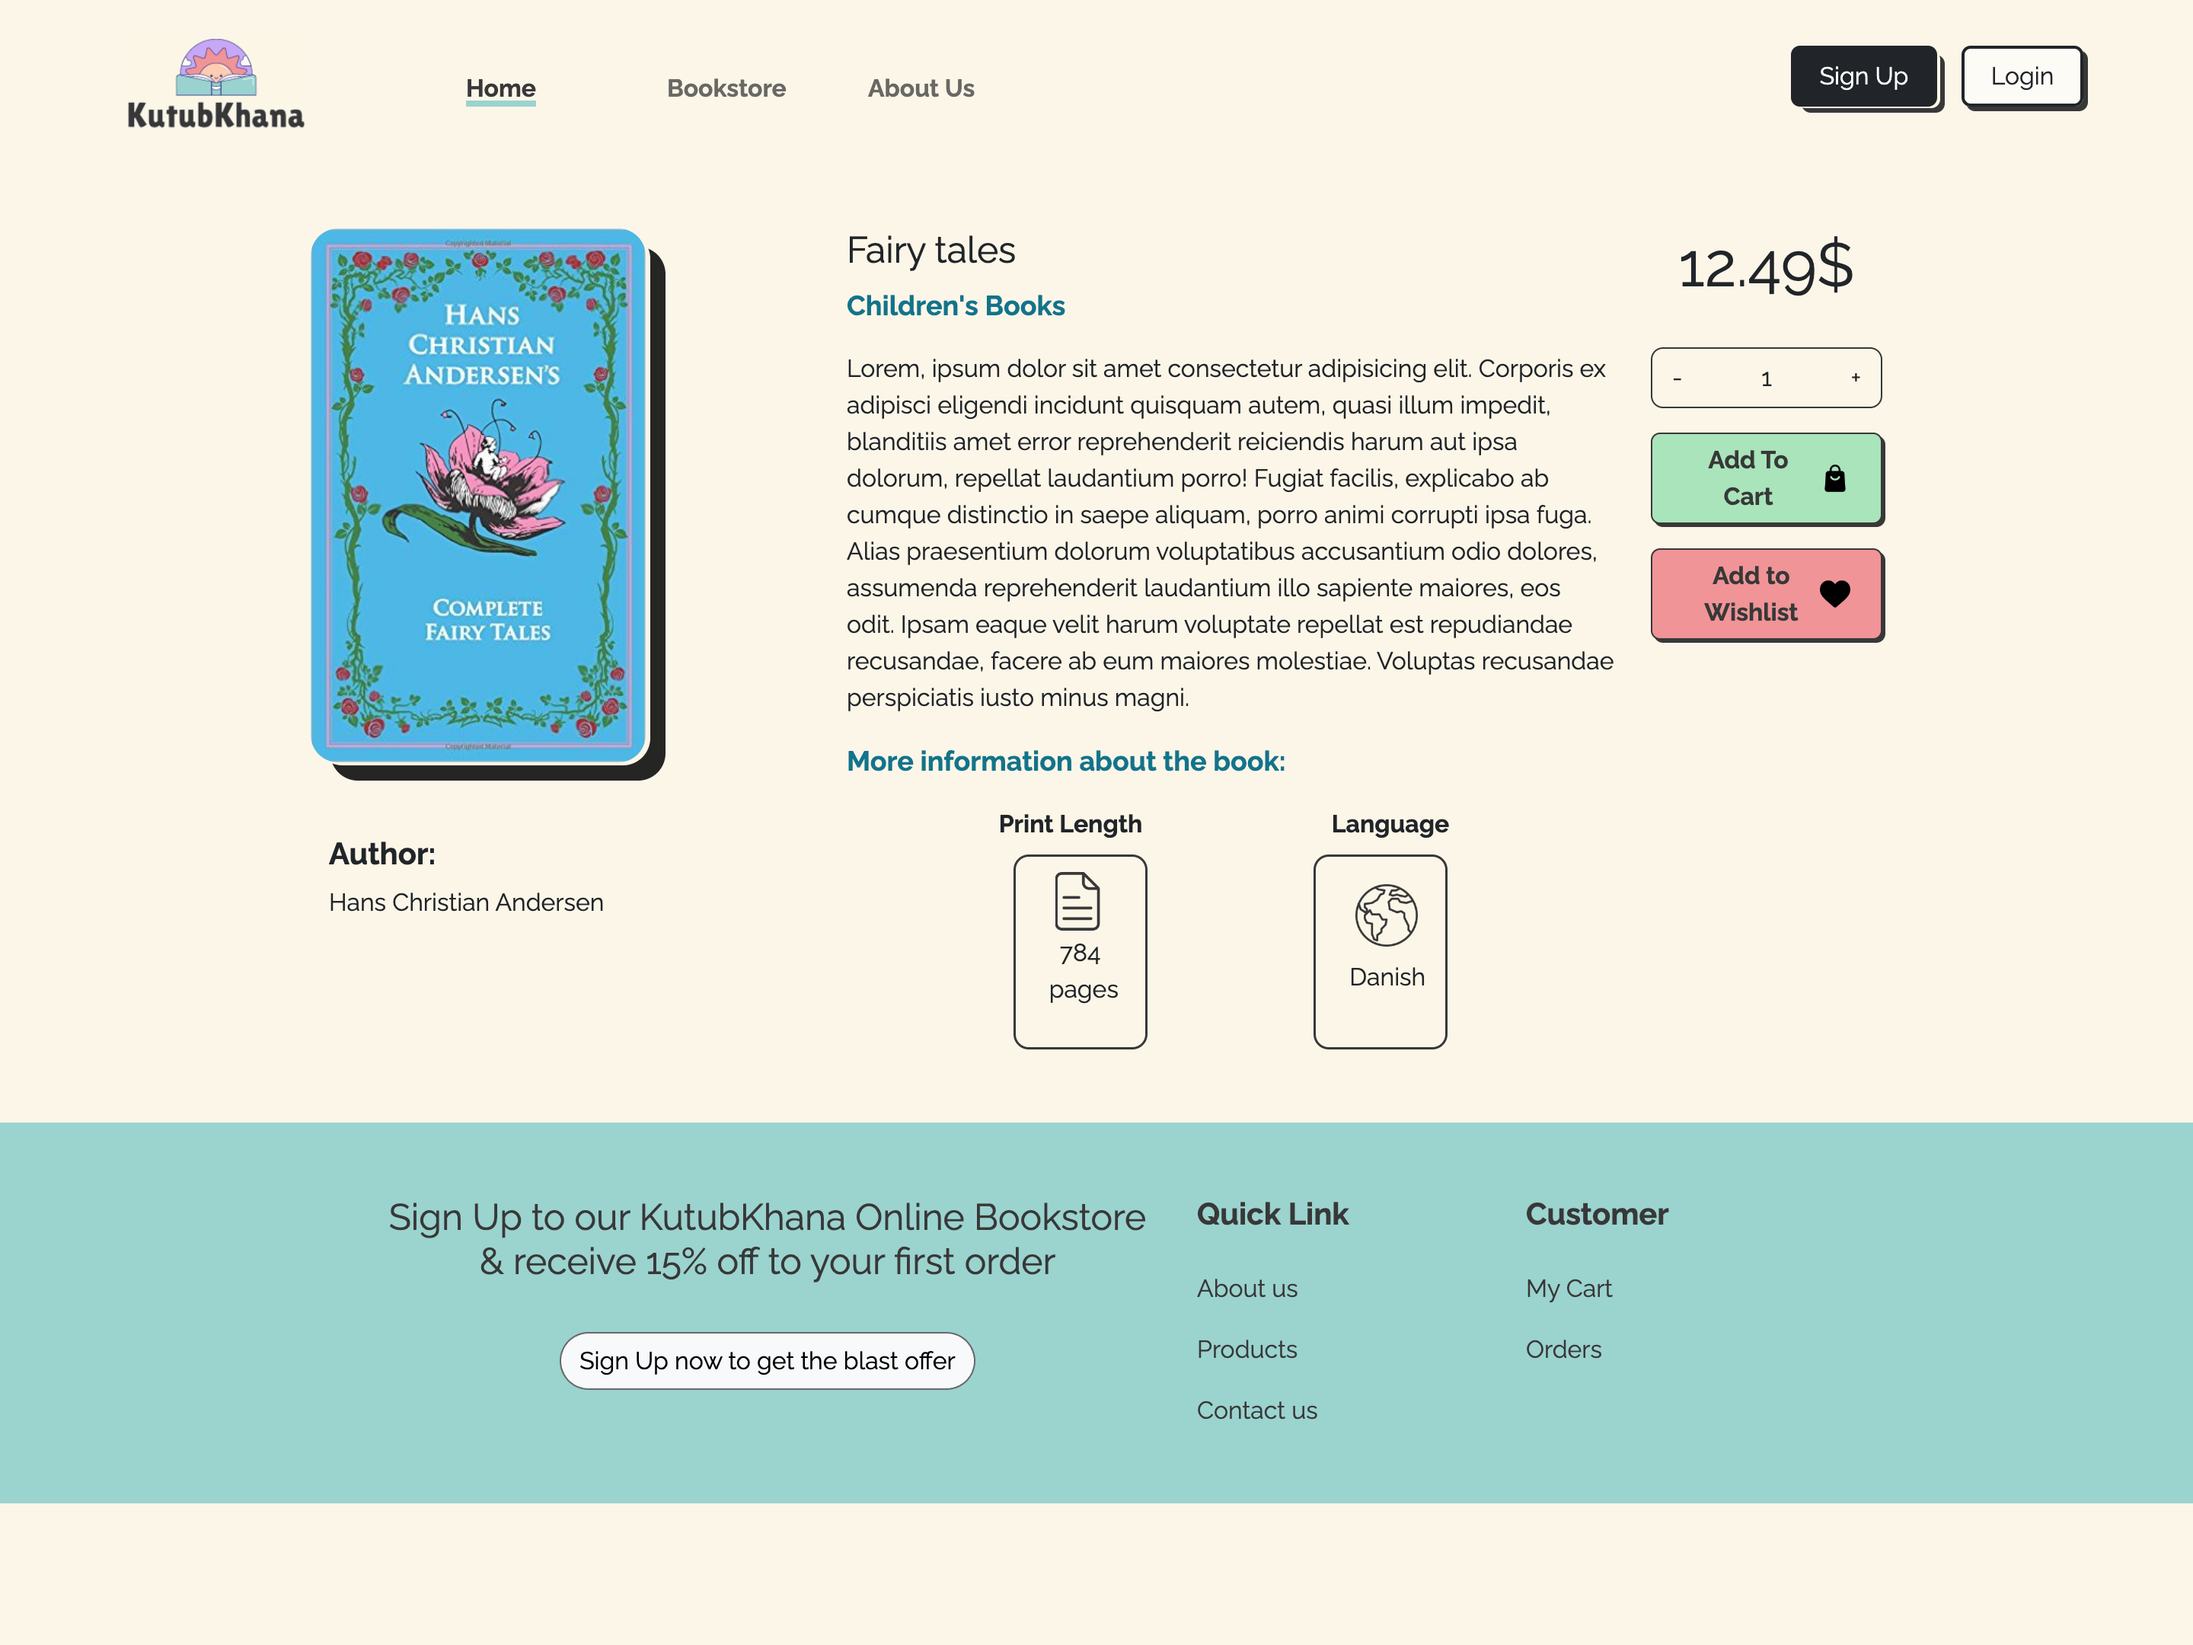
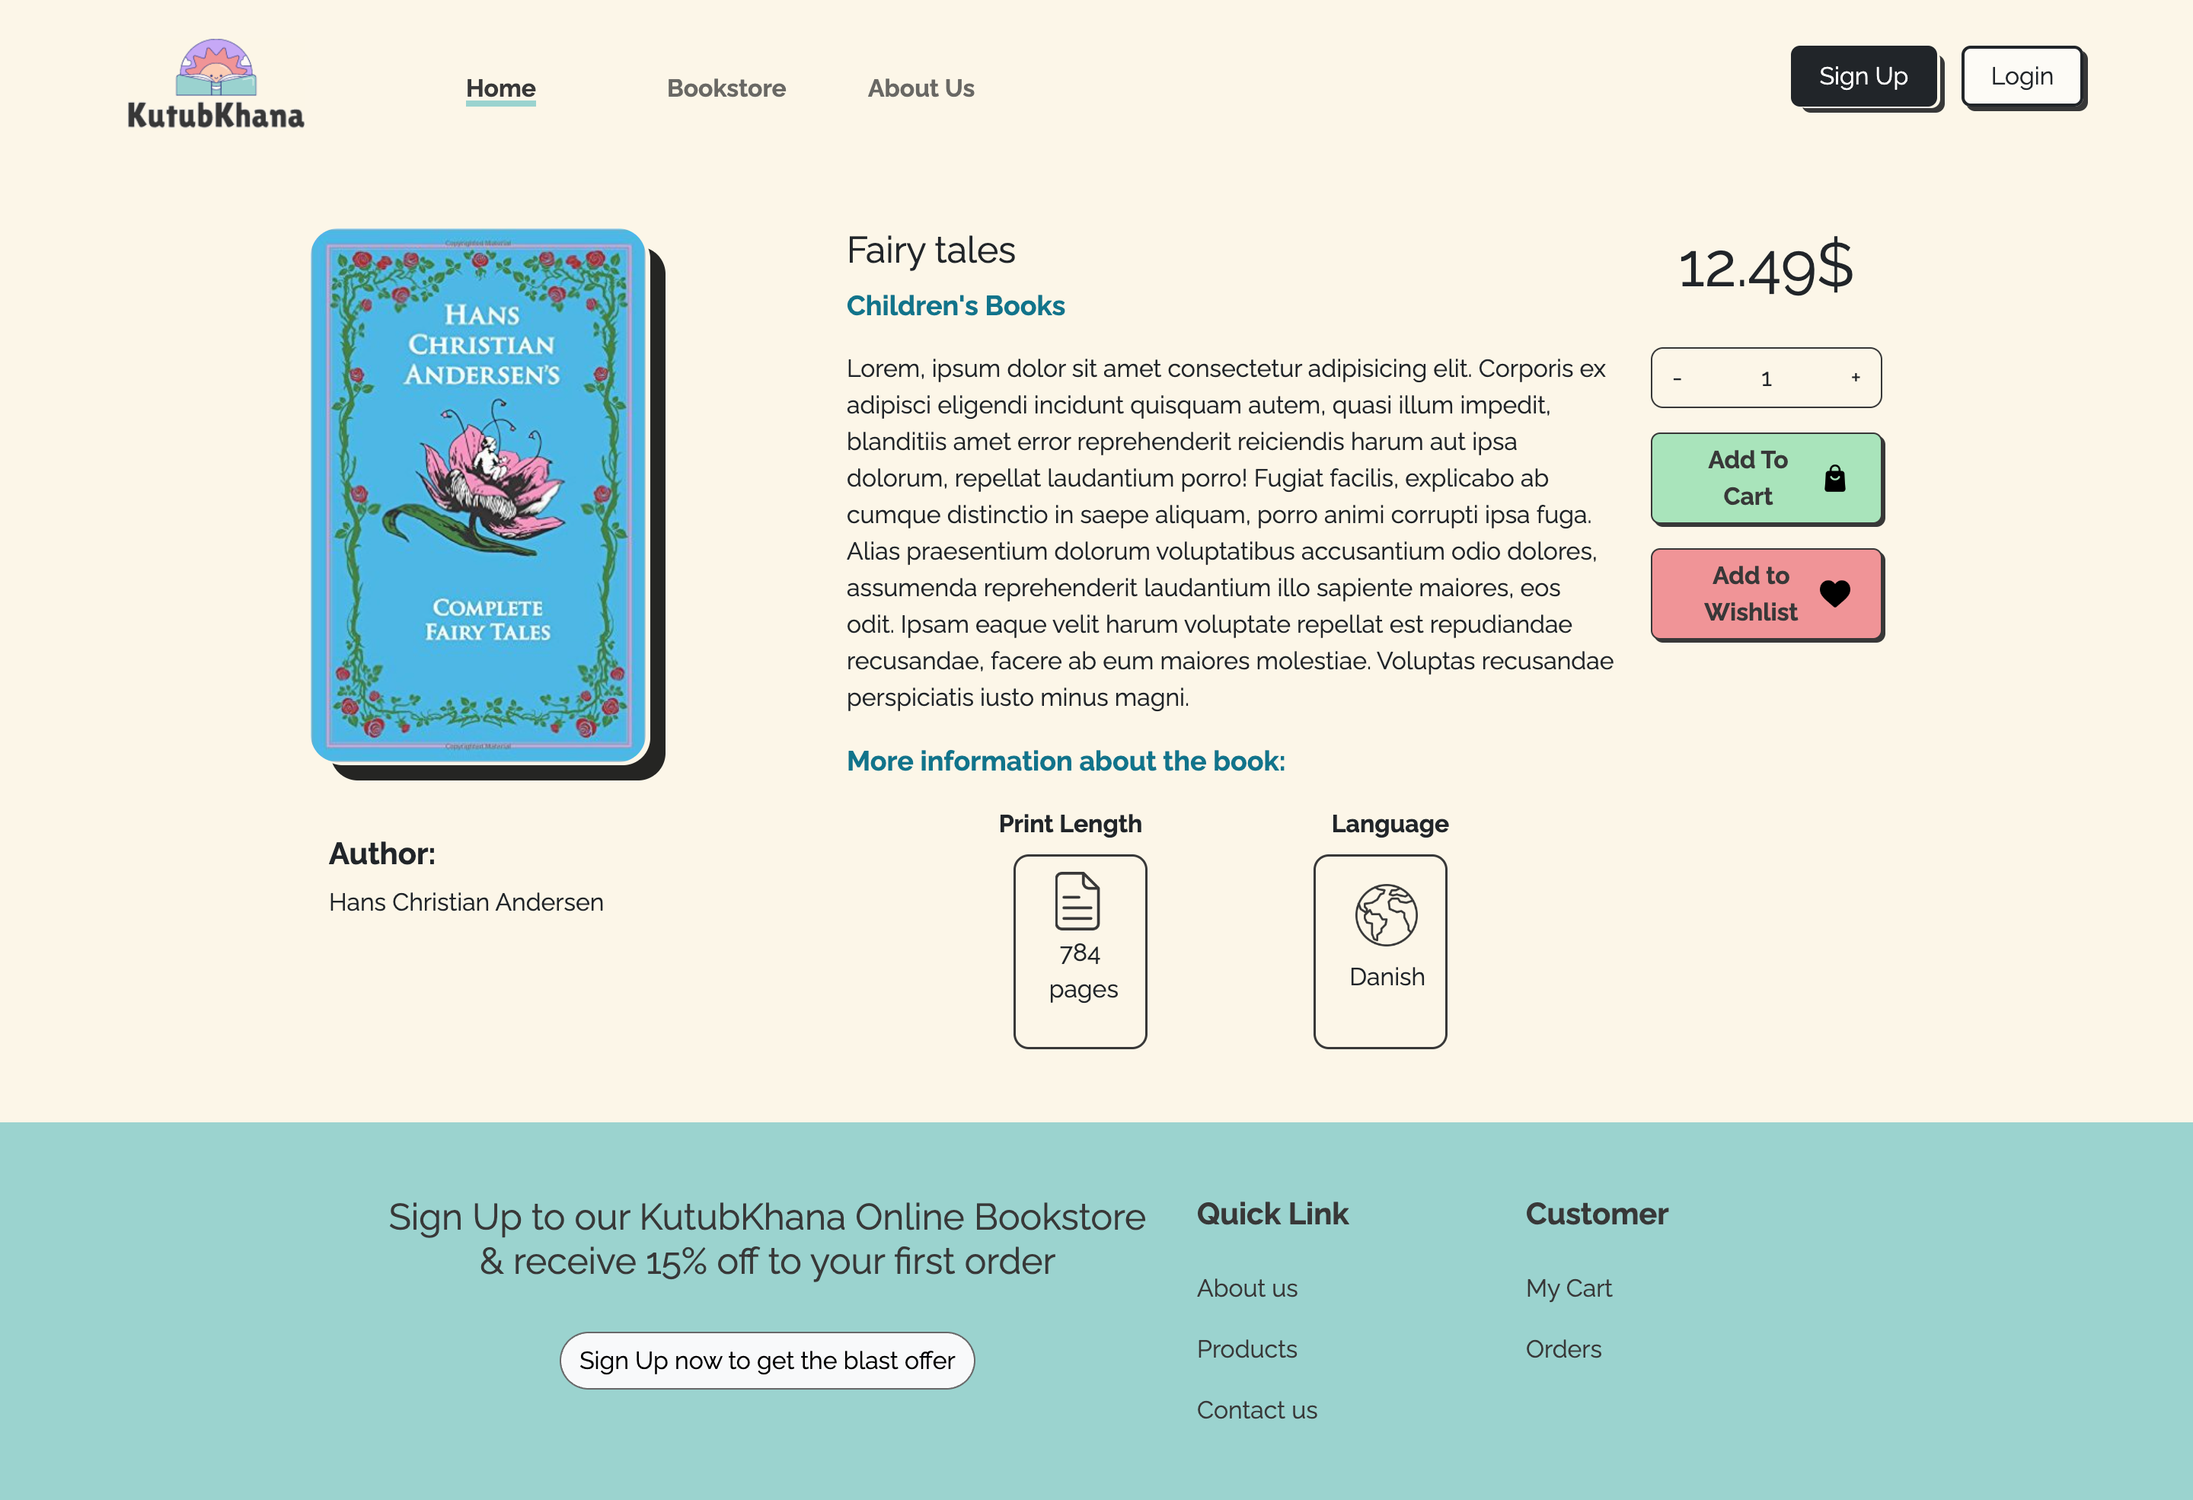
updated readme

diff --git a/pages/Cart.html b/pages/Cart.html
@@ -46,6 +46,7 @@
             frameborder="0"
             width="100%"
             scrolling="yes"
+            height="500px"
             class="position-absolute"
             id="footerFrame"
           ></iframe>

diff --git a/README.md b/README.md
@@ -28,6 +28,11 @@ KutubKhana Online Bookstore Platform is a web application that aims to recreate 
 
 - **Responsive Design:** The platform is built with a responsive design, ensuring a consistent and enjoyable experience across various devices and screen sizes.
 
+## Production Deployment
+
+You can access the production deployment of KutubKhanah [here](https://malaknasser.github.io/KutubKhanah).
+
+
 ## Screens
 
 Here are some screenshots showcasing the functionalities of the KutubKhana Online Bookstore Platform:
@@ -43,7 +48,7 @@ Here are some screenshots showcasing the functionalities of the KutubKhana Onlin
    ![Book Categories](./Assets/KutubKhanahScreens/bookstore.png)
 
 3. **Wishlist Functionality:**
-   ![Wishlist Functionality](./Assets/KutubKhanahScreens/wishList.png)
+   ![Wishlist Functionality](./Assets/KutubKhanahScreens/wishList.jpg)
 
 4. **Book Details:**
    ![Book Details](./Assets/KutubKhanahScreens/itemView.png)
@@ -52,7 +57,7 @@ Here are some screenshots showcasing the functionalities of the KutubKhana Onlin
    ![Adding to Cart](./Assets/KutubKhanahScreens/cart.png)
 
 6. **Shipping Process:**
-   ![Shipping Process](./Assets/KutubKhanahScreens/shipping.png)
+   ![Shipping Process](./Assets/KutubKhanahScreens/shipping.jpg)
 
 7. **Cart Success Process:**
    ![Cart Success Process](./Assets/KutubKhanahScreens/cartSuccess.png)
@@ -84,7 +89,23 @@ To get started with the KutubKhana Online Bookstore Platform, follow these steps
    cd KutubKhanah
    ```
 
-3. **Open `index.html` in your Browser:**
+3. **Install JSON Server:**
+
+Before running the JSON Server, you need to install it globally on your machine. If you haven't already installed JSON Server, you can do so using npm (Node Package Manager) by running the following command:
+
+   ```bash
+   npm install -g json-server
+   ```
+
+4. **Start JSON Server:**
+
+Once JSON Server is installed, navigate to the project directory if you're not already there and run the following command to start the server:
+
+   ```bash
+   json-server --watch database/userData.json
+   ```
+
+5. **Open `index.html` in your Browser:**
    Open the `index.html` file in your preferred web browser to explore the online bookstore platform.
 
 ## How to Use
@@ -104,12 +125,3 @@ To get started with the KutubKhana Online Bookstore Platform, follow these steps
 5. **Checkout:**
    Complete your purchase by following the simple checkout process.
 
-## Contributing
-
-We welcome contributions from the community to enhance the KutubKhana Online Bookstore Platform. If you'd like to contribute, please follow our [contribution guidelines](CONTRIBUTING.md).
-
-## License
-
-This project is licensed under the [MIT License](LICENSE), which means you are free to use, modify, and distribute the code for personal or commercial purposes.
-
-Thank you for exploring KutubKhana Online Bookstore Platform! Happy reading! 📚✨
